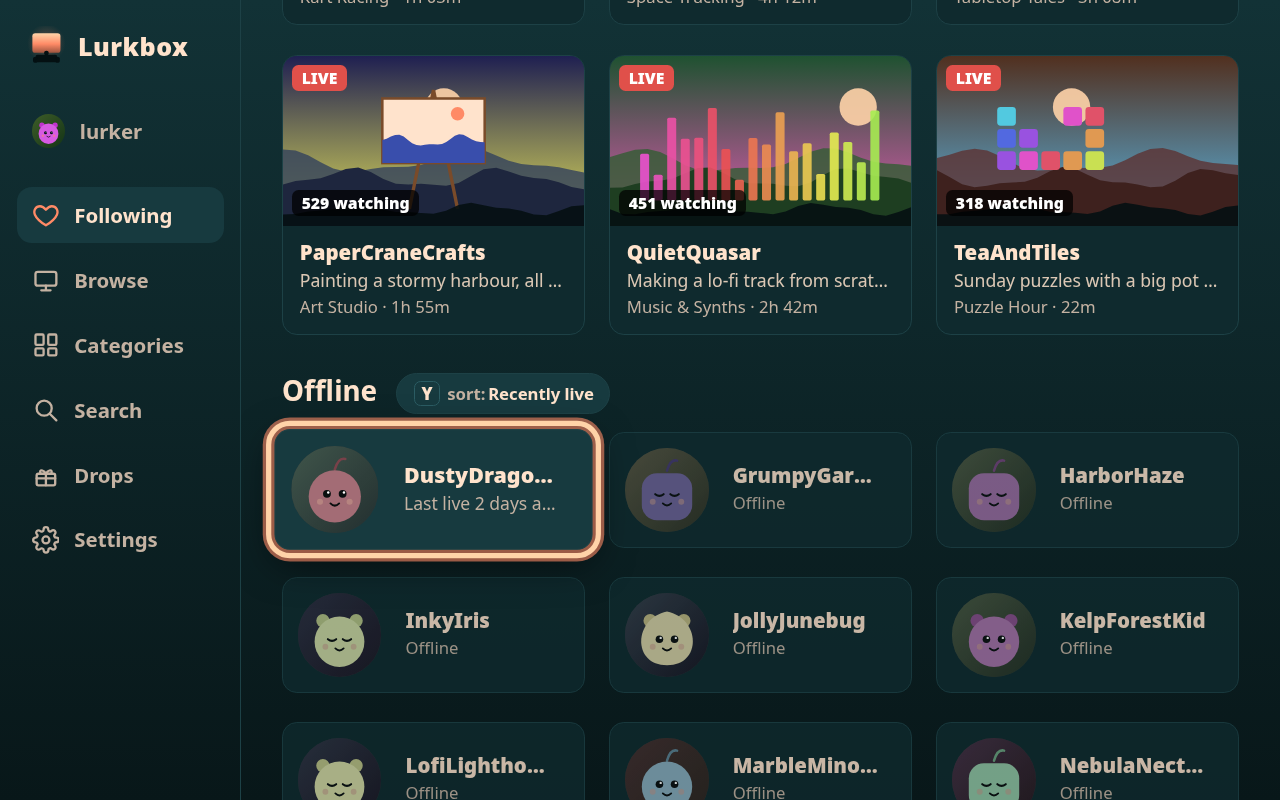
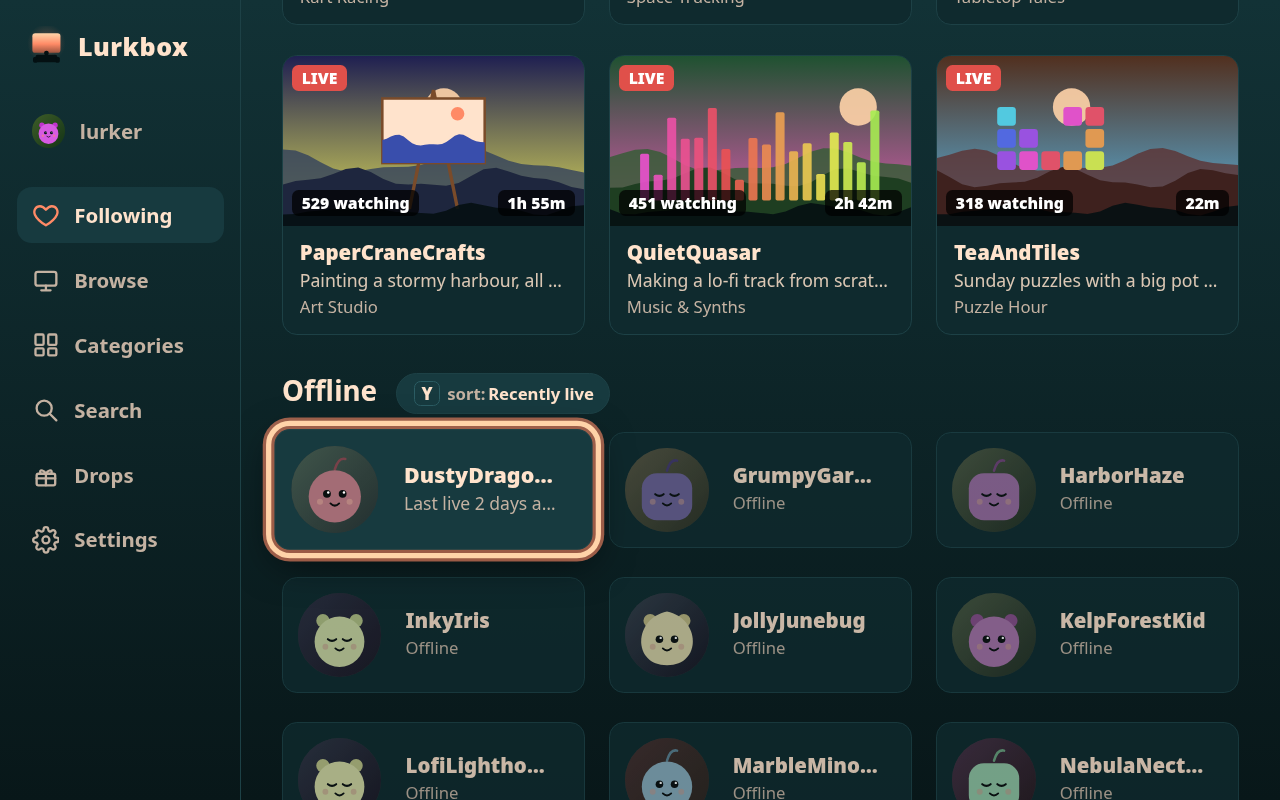
Stream cards: uptime moves to a badge on the thumbnail, so the game name gets the whole line

diff --git a/packages/core/src/js/grid.js b/packages/core/src/js/grid.js
@@ -64,11 +64,14 @@ export function streamCard(s, onSelect) {
     el('div', { class: 'card-thumb' },
       s.thumbnail_url ? el('img', { src: thumb(s.thumbnail_url, 440, 248, refreshMs()), alt: '', loading: 'lazy' }) : null,
       el('span', { class: 'badge live' }, 'LIVE'),
-      el('span', { class: 'badge viewers' }, `${fmtViewers(s.viewer_count)} watching`)),
+      el('span', { class: 'badge viewers' }, `${fmtViewers(s.viewer_count)} watching`),
+      // Uptime sits on the thumbnail so it never gets cut off by a long game name.
+      s.started_at ? el('span', { class: 'badge uptime', title: 'Live for' }, fmtUptime(s.started_at)) : null),
     el('div', { class: 'card-body' },
       el('div', { class: 'card-title' }, s.user_name || s.user_login),
       el('div', { class: 'card-sub' }, s.title || ''),
-      el('div', { class: 'card-meta' }, [s.game_name, fmtUptime(s.started_at)].filter(Boolean).join(' · ')))));
+      // The game gets the whole line; it scrolls on focus (marquee) if it's still too long.
+      el('div', { class: 'card-meta' }, s.game_name || ''))));
 }
 
 export function gameCard(g, onSelect) {

diff --git a/packages/core/src/css/app.css b/packages/core/src/css/app.css
@@ -223,6 +223,7 @@ img { display: block; }
 }
 .badge.live { top: 0.5rem; left: 0.5rem; background: var(--live); color: var(--on-live); }
 .badge.viewers { bottom: 0.5rem; left: 0.5rem; }
+.badge.uptime { bottom: 0.5rem; right: 0.5rem; font-variant-numeric: tabular-nums; }
 .badge.kind { top: 0.5rem; right: 0.5rem; text-transform: capitalize; }
 .badge.clip-views { top: 0.5rem; right: 0.5rem; }
 .card-body { padding: 0.7rem 0.9rem 0.9rem; display: flex; flex-direction: column; gap: 0.2rem; min-width: 0; }
